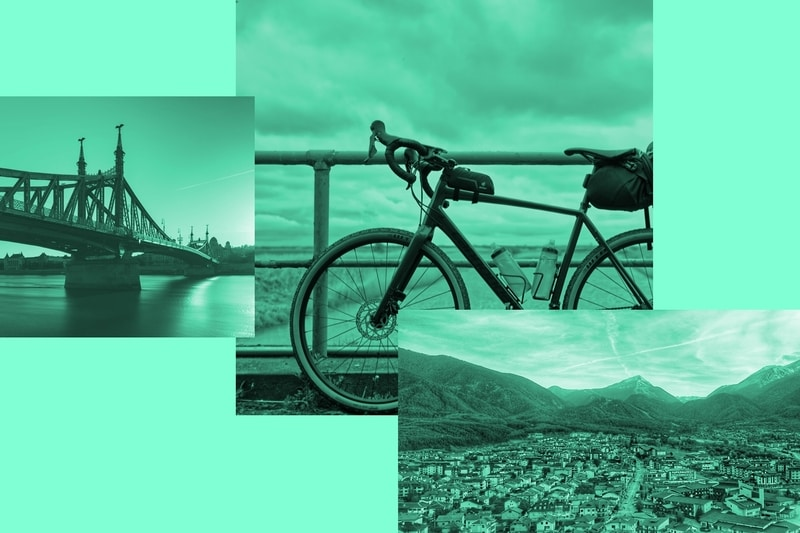
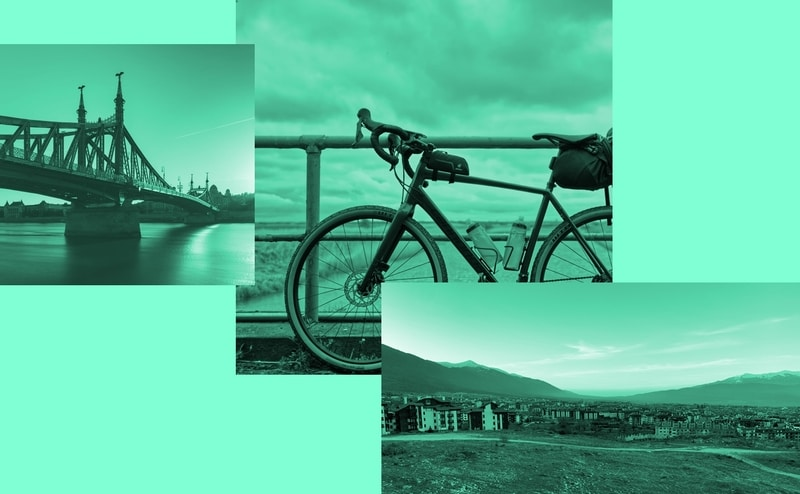
New version

diff --git a/index.html b/index.html
@@ -1,6 +1,6 @@
 <!DOCTYPE html>
 <!--  This site was created in Webflow. http://www.webflow.com  -->
-<!--  Last Published: Sun Jan 26 2020 17:19:46 GMT+0000 (Coordinated Universal Time)  -->
+<!--  Last Published: Mon Jan 27 2020 18:15:01 GMT+0000 (Coordinated Universal Time)  -->
 <html data-wf-page="5e2d7f7f5b8bed0813afb15f" data-wf-site="5e2d7f7f5b8bed16ffafb151">
 <head>
   <meta charset="utf-8">
@@ -14,7 +14,7 @@
   <script type="text/javascript">try{Typekit.load();}catch(e){}</script>
   <!-- [if lt IE 9]><script src="https://cdnjs.cloudflare.com/ajax/libs/html5shiv/3.7.3/html5shiv.min.js" type="text/javascript"></script><![endif] -->
   <script type="text/javascript">!function(o,c){var n=c.documentElement,t=" w-mod-";n.className+=t+"js",("ontouchstart"in o||o.DocumentTouch&&c instanceof DocumentTouch)&&(n.className+=t+"touch")}(window,document);</script>
-  <link href="images/favicon.ico" rel="shortcut icon" type="image/x-icon">
+  <link href="images/favicon.png" rel="shortcut icon" type="image/x-icon">
   <link href="images/webclip.png" rel="apple-touch-icon">
 </head>
 <body class="body">
@@ -33,8 +33,8 @@
       </div>
     </div>
     <div class="section-date">
-      <h2 class="headline"><strong class="bold-text">May 29th – June 7th </strong><span class="year"><strong class="bold-text">2020</strong></span></h2>
-      <div class="subhead">980 km in 10 Days</div>
+      <h2 class="headline"><strong class="bold-text">May 29th – June 9th </strong><span class="year"><strong class="bold-text">2020</strong></span></h2>
+      <div class="subhead">980 km in ~ 12 Days</div>
     </div>
     <div class="section-cta"><a href="https://www.facebook.com/groups/783728872110592/" target="_blank" class="cta">Join the conversation</a></div>
   </div>
@@ -73,7 +73,7 @@
         </div>
         <div class="column w-col w-col-6">
           <h3><strong>Bansko</strong></h3>
-          <p>Bansko is a small mountain resort in Bulgaria and one of the fastest growing Nomad Hubs in Europe driven by <a href="https://coworkingbansko.com/" target="_blank">Coworking Bansko</a>. If you have the time to stay for a few weeks, you will be there for the <a href="https://banskonomadfest.com/" target="_blank">Bansko Nomad Fest</a> end of June.<br></p>
+          <p>Bansko is a mountain resort in Bulgaria and one of the fastest growing nomad hubs in Europe driven by <a href="https://coworkingbansko.com/" target="_blank">Coworking Bansko</a>. If you have the time to stay for a few weeks, you will be there for the <a href="https://banskonomadfest.com/" target="_blank">Bansko Nomad Fest</a> end of June.<br></p>
         </div>
       </div>
     </div>
@@ -81,19 +81,19 @@
       <h2 class="sectionhead">FAQ</h2>
       <div class="faq">
         <h3 class="faq-head"><strong><em class="italic-text">How much will it cost in total?</em></strong></h3>
-        <p>This is a non commercial trip. You are not a consumer. We are co-creating, planning and cycling together. Therefore, you will join this at your own expense and pay for food and accommodation directly to the vendors.</p>
+        <p>This is a non commercial trip. We are co-creating, planning and cycling together. Therefore, you will join this at your own expense and pay for food and accommodation directly to the vendors.</p>
       </div>
       <div class="faq">
         <h3 class="faq-head"><strong><em class="italic-text">What kind of bike do I need?</em></strong></h3>
-        <p>Basically any kind. I&#x27;ve done hundreds of kilometres on my folding bike and seen people riding from <a href="https://www.instagram.com/keirinberlin" target="_blank">Berlin to Tokyo on a Fixie</a>. It really depends on your preference or availability.</p>
+        <p>Basically any kind. Daniel is doing hundreds of kilometres on his <a href="https://www.youtube.com/channel/UCiah6B9xBWo8wU1gx3PiHtg" target="_blank">folding bike</a> and there are people riding from <a href="https://www.instagram.com/keirinberlin" target="_blank">Berlin to Tokyo on a Fixie</a>. It really depends on your preference and availability. We&#x27;ll be mostly riding paved roads, so a road bike is fine too.</p>
       </div>
       <div class="faq">
         <h3 class="faq-head"><strong><em class="italic-text">What fitness level is required?</em></strong></h3>
-        <p>We&#x27;re aiming for ~100km a day on average. If you have a little bit of practice, this isn&#x27;t rally a big deal but still sportive and if you don&#x27;t have any cycling experience at all, we recommend to do a few smaller tours to build up your fitness level and see if this is for you.</p>
+        <p>We&#x27;re aiming for ~80km a day on average. However, we&#x27;re flexible to scale this up or down depending on the needs of the group.</p>
       </div>
       <div class="faq">
         <h3 class="faq-head"><strong><em class="italic-text">Will I have time to work during the trip?</em></strong></h3>
-        <p>The daily riding will take about 8hrs max. inkl. pauses and you will haver time in the evening to get some pressing work done if.</p>
+        <p>The daily riding will take about 8hrs max., including pauses. So you will have time in the evening to get some work done if needed.</p>
       </div>
       <div class="faq">
         <h3 class="faq-head"><strong><em class="italic-text">What kind of accommodation?</em></strong></h3>
@@ -101,7 +101,7 @@
       </div>
       <div class="faq">
         <h3 class="faq-head"><strong><em class="italic-text">What kind of luggage do you take?</em></strong></h3>
-        <p>We try to travel rather light and prefer a bike packing setup. That&#x27;s why we don&#x27;t cary tents and cooking utensils as these would increase the weight quite a bit.</p>
+        <p>We try to travel rather light and prefer a bikepacking setup. That&#x27;s why we don&#x27;t cary tents and cooking utensils, as these would increase the weight quite a bit.</p>
       </div>
     </div>
     <div class="section-text">
@@ -116,7 +116,7 @@
       <div class="w-row">
         <div class="w-col w-col-6">
           <div class="profile">
-            <div class="profile-pic"><img src="images/Daniel.jpg" srcset="images/Daniel.jpg 500w, images/Daniel.jpg 562w" sizes="(max-width: 479px) 75vw, 200px" alt=""></div>
+            <div class="profile-pic"><img src="images/Daniel.jpg" srcset="images/Daniel-p-500.jpeg 500w, images/Daniel.jpg 562w" sizes="(max-width: 479px) 75vw, 200px" alt=""></div>
           </div>
         </div>
         <div class="w-col w-col-6">

diff --git a/css/nomad-on-bike.webflow.css b/css/nomad-on-bike.webflow.css
@@ -96,7 +96,7 @@ a {
 }
 
 .section-titleimage {
-  height: 650px;
+  height: 614px;
   background-color: #7fffd4;
   background-image: url('../images/Title.jpg');
   background-position: 50% 50%;
